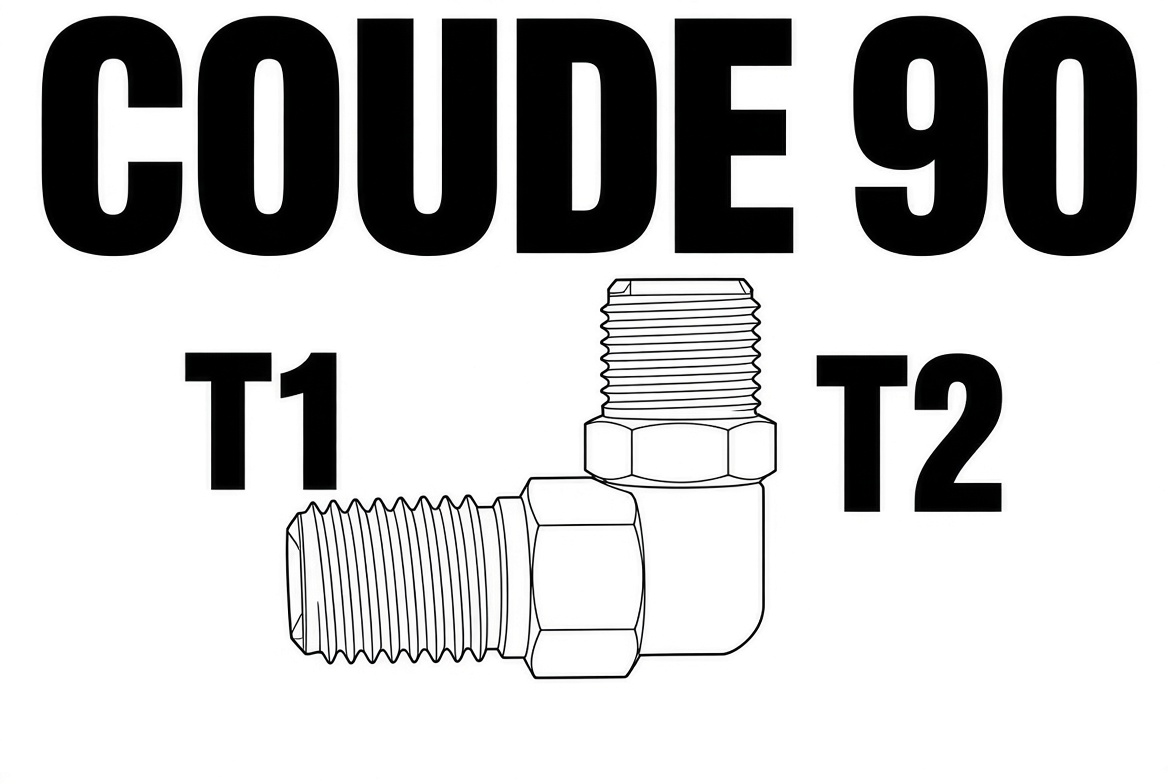
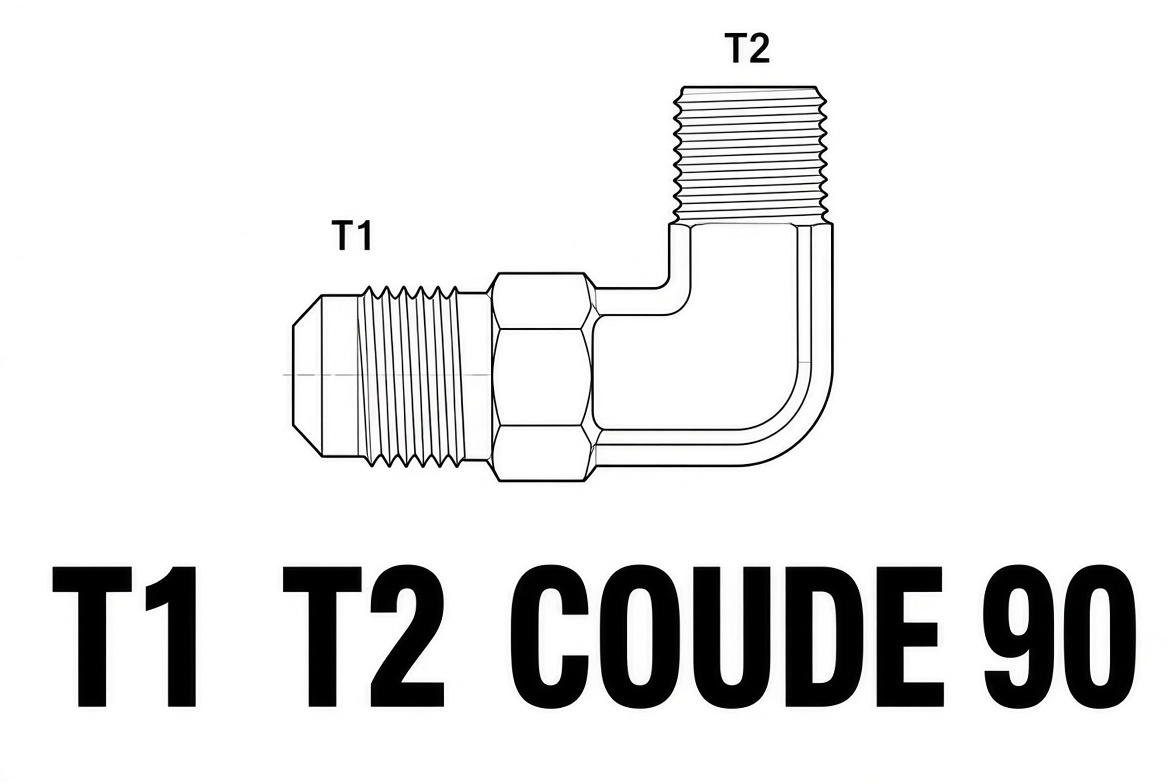
Planches males calquees, femelles au gros texte

diff --git a/index.html b/index.html
@@ -285,13 +285,13 @@ function td(major,pitch,pct){return major-1.299038105676658*pitch*(pct/100);}
 function table(){return {UNC,UNF,MET,NPT,BSPP}[family];}
 function part(kind, angle){
   const k = (kind||"jic").toLowerCase();
-  let file = "img/jic.jpg", cap = "2404 · T1 = JIC 37°, T2 = NPT";
-  if(angle==="90°"){ file="img/elbow.jpg"; cap="2501 · coude 90, T1 = JIC, T2 = NPT"; }
-  else if(angle==="45°"){ file="img/elbow45.jpg"; cap="2503 · 45°, T1 = JIC, T2 = NPT"; }
-  else if(angle==="Té"){ file="img/tee.jpg"; cap="2601 · T1 et T3 = JIC, T2 = NPT"; }
-  else if(k.includes("orfs")){ file="img/orfs.jpg"; cap="FS2404 · T1 = face plate, T2 = NPT"; }
-  else if(k.includes("npt")||k.includes("npsm")){ file="img/npt.jpg"; cap="1404 · mâle NPT conique"; }
-  else if(k.includes("orb")){ file="img/orb.jpg"; cap="6801 · T2 = ORB, anneau à la base"; }
+  let file = "img/jic.jpg", cap = "T1 JIC, T2 NPT · vernier dehors sur le filet";
+  if(angle==="90°"){ file="img/elbow.jpg"; cap="coude 90 · T1 JIC, T2 NPT"; }
+  else if(angle==="45°"){ file="img/elbow45.jpg"; cap="coude 45 · T1 JIC, T2 NPT"; }
+  else if(angle==="Té"){ file="img/tee.jpg"; cap="té · T1 et T3 JIC, T2 NPT"; }
+  else if(k.includes("orfs")){ file="img/orfs.jpg"; cap="T1 ORFS, gorge du joint dans la face · T2 NPT"; }
+  else if(k.includes("npt")||k.includes("npsm")){ file="img/npt.jpg"; cap="T1 NPT conique · T2 femelle NPSM"; }
+  else if(k.includes("orb")){ file="img/orb.jpg"; cap="T1 JIC · T2 ORB, anneau à la base"; }
   if(sex==="F"){
     file = "img/fjic.jpg"; cap = "F-JIC · filet dedans, siège 37°";
     if(k.includes("orfs")){ file="img/forfs.jpg"; cap="F-ORFS · face plate, joint dans la face"; }
